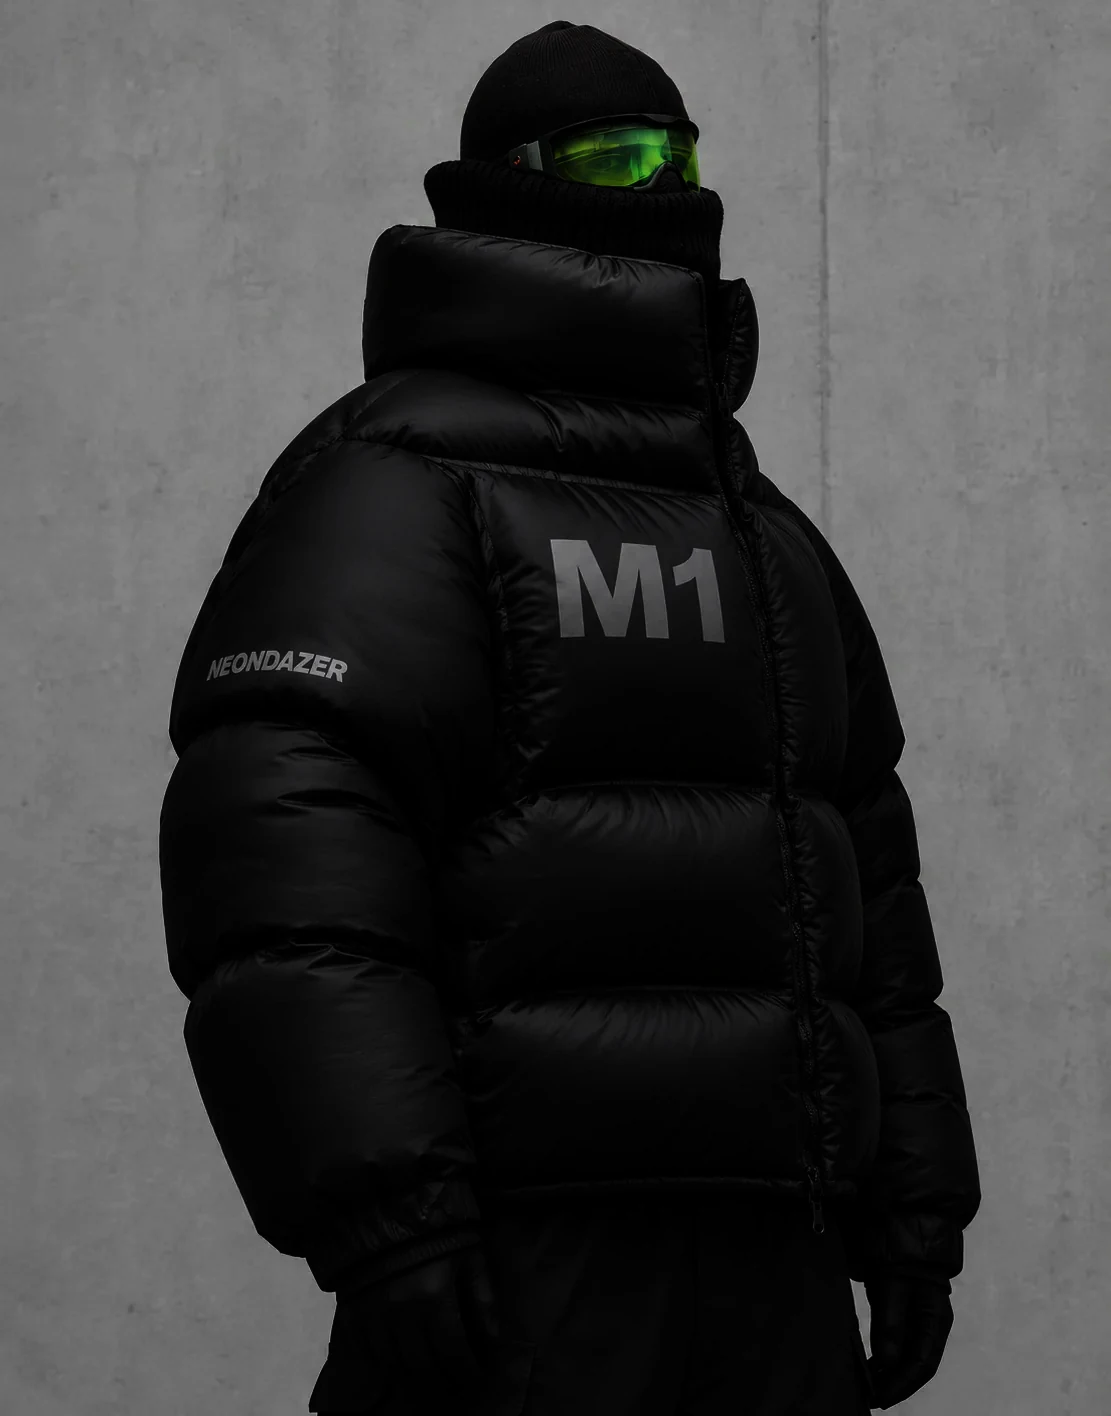
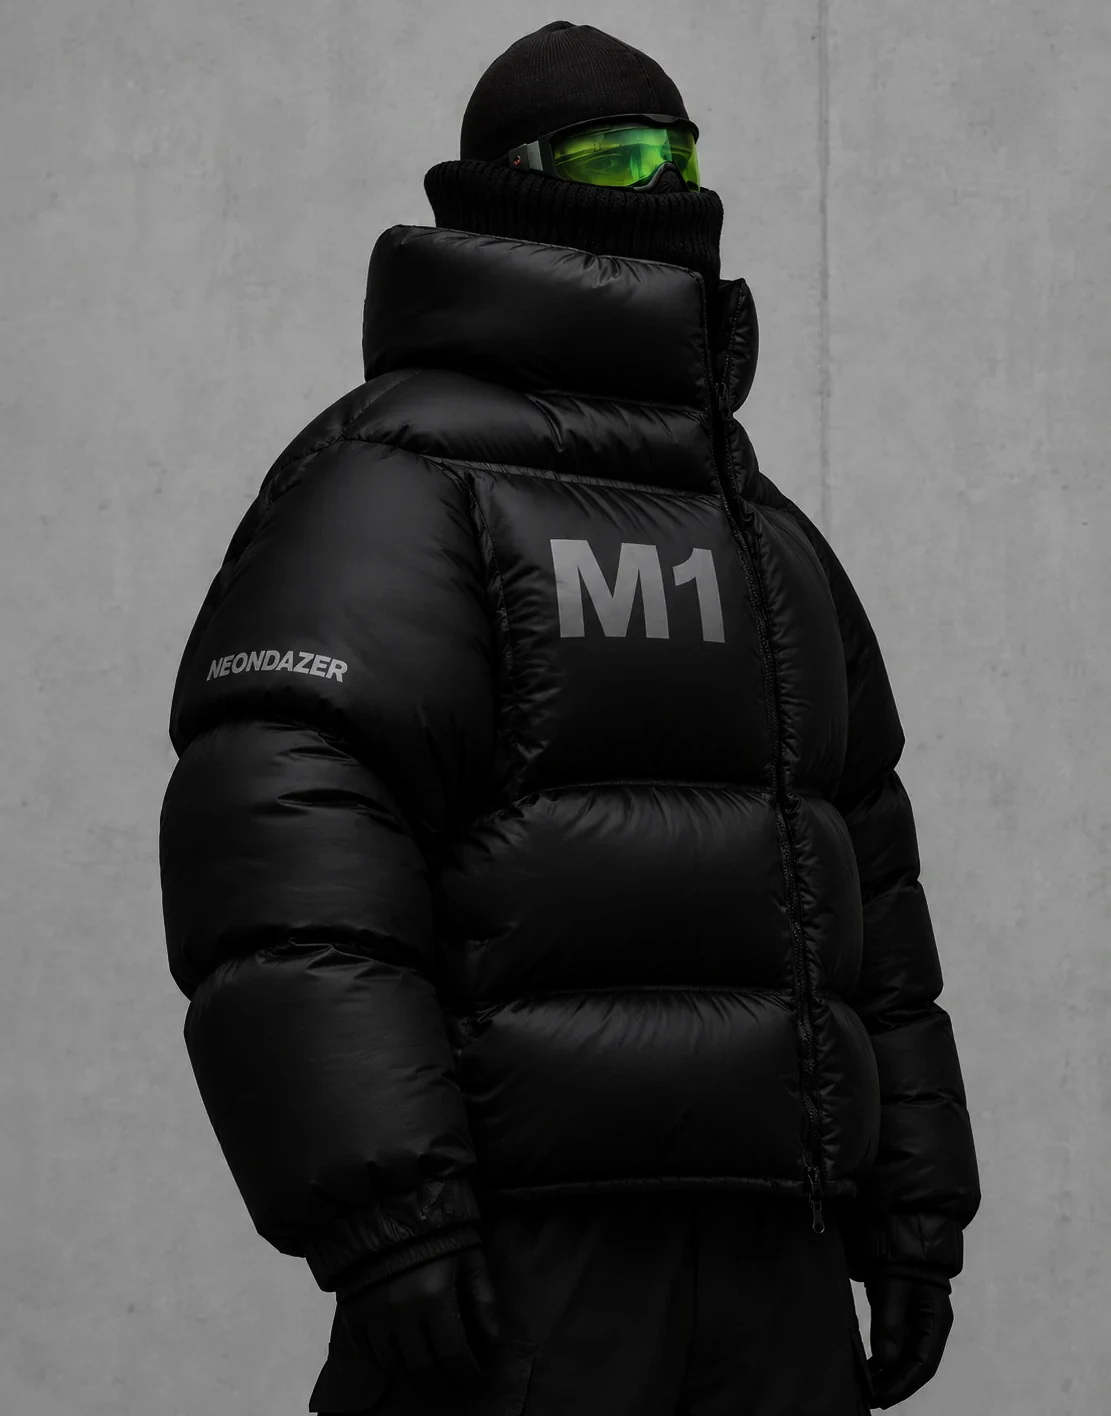
Hero layout and brighter photo, who intro, drop stats, faster growing lightbox, wordmark page transition
Claude-Session: https://claude.ai/code/session_01Tmbk2dd4R9AbAKMPzQgXd1

diff --git a/src/styles/pages.css b/src/styles/pages.css
@@ -562,7 +562,7 @@ body.is-locked { overflow: visible; }
 .choice input:checked { border-color: var(--c-ink); }
 .choice:has(input:checked) { border-color: var(--c-ink); background: rgba(182,255,46,0.16); }
 .ship-meter .stock__fill, .loader__bar i { background: var(--c-acid); }
-.curtain i:nth-child(3) { background: var(--c-acid); }
+
 .co-processing li.is-done, .co-steps li.is-done { color: var(--c-ink); }
 .co-steps li.is-done { background: rgba(182,255,46,0.35); }
 .co-ring { background: conic-gradient(from 0deg, transparent 0 25%, var(--c-ink) 60%, var(--c-acid) 100%); }
@@ -900,3 +900,46 @@ body.is-locked { overflow: visible; }
 /* narrow lookbook frames: drop the bottom-right note so it never meets the caption */
 .look--s5 .look__i--br { display: none; }
 @media (max-width: 819px) { .look--s3 .look__i--br, .look--s7 .look__i--br, .look--s1 .look__i--br { display: none; } }
+
+/* =========================== round: hero layout, intros, stats, transition =========================== */
+/* hero: lede moves top-left under the M1 caption */
+.hero__thumbs { position: relative; }
+.hero__lede { position: absolute; left: 0; top: calc(100% + 150px); width: 21ch; margin: 0; max-width: 21ch; font-family: var(--f-display); font-weight: 500; font-size: 1.15rem; line-height: 1.12; letter-spacing: -0.03em; color: #fff; }
+@media (max-width: 819px) { .hero__lede { display: none; } }
+/* hero: LIMITED and 78C closer together and higher; the button row rises with them */
+@media (min-width: 820px) {
+  .ht--2 { top: 25%; }
+  .ht--5 { top: 47% !important; margin-top: 0 !important; }
+  .hero__bottom { align-items: center; }
+}
+
+/* who: small bold intro above the label */
+.who__intro { display: grid; gap: 14px; max-width: 34ch; }
+.who__kicker { margin: 0; color: #fff; font-family: var(--f-display); font-weight: 600; font-size: 1.05rem; line-height: 1.25; letter-spacing: -0.02em; }
+
+/* drop row: stats above "Shop all" */
+.drop-row__aside { display: grid; gap: 22px; justify-items: end; }
+.drop-stats { display: flex; gap: clamp(18px, 3vw, 44px); margin: 0; }
+.drop-stats div { display: grid; gap: 2px; }
+.drop-stats dt { order: 2; font-family: var(--f-display); font-weight: 500; font-size: 1rem; letter-spacing: -0.02em; color: #55555b; }
+.drop-stats dd { order: 1; margin: 0; font-family: var(--f-display); font-weight: 500; font-size: clamp(2.2rem, 3.6vw, 3.4rem); line-height: 0.95; letter-spacing: -0.05em; color: var(--c-ink); }
+.drop-stats div:last-child dd { color: var(--c-cobalt); }
+@media (max-width: 819px) { .drop-row__aside { justify-items: start; } .drop-stats { gap: 18px; } .drop-stats dd { font-size: 2rem; } .drop-stats dt { font-size: 0.85rem; } }
+
+/* page transition: black panel, wordmark, loading ring */
+.curtain { display: block !important; }
+.curtain__panel { position: absolute; inset: 0; visibility: hidden; background: var(--c-void); color: var(--c-bone);
+  display: grid; place-content: center; justify-items: center; gap: 28px; }
+.curtain__edge { position: absolute; left: 0; right: 0; top: 0; height: 3px; background: var(--c-acid); }
+.curtain__word { margin: 0; font-family: var(--f-display); font-weight: 500; font-size: clamp(3.6rem, 15vw, 15rem); line-height: 0.9; letter-spacing: -0.06em; text-transform: uppercase; }
+.curtain__mask { display: inline-flex; overflow: hidden; padding: 0.04em 0.04em 0.06em; }
+.curtain__ch { display: inline-block; }
+.curtain__word sup { font-size: 0.16em; margin-left: 0.15em; align-self: flex-start; letter-spacing: 0; }
+.curtain__meta { display: flex; align-items: center; gap: 12px; font-family: var(--f-display); font-weight: 500; font-size: 1.05rem; letter-spacing: -0.02em; }
+.curtain__ring { width: 30px; height: 30px; animation: ring-spin 0.9s linear infinite; }
+.curtain__ring circle { fill: none; stroke-width: 3; }
+.curtain__track { stroke: rgba(255,255,255,0.14); }
+.curtain__arc { stroke: var(--c-acid); stroke-linecap: round; stroke-dasharray: 40 120; }
+@keyframes ring-spin { to { transform: rotate(360deg); } }
+.hero__thumbs p.hero__lede { padding: 0; margin: 0; }
+@media (min-width: 820px) and (min-height: 800px) { .hero__bottom { position: relative; top: -9vh; } }

diff --git a/index.html b/index.html
@@ -51,6 +51,7 @@
           <button type="button" class="hero__thumb hv" data-lb="hero" data-lb-src="./images/m1-editorial-sleeve.webp" data-lb-caption="Shoulder cell and M1 print" data-cursor="View" aria-label="View photo: shoulder and print"><img src="./images/m1-editorial-sleeve-sm.webp" alt="Shoulder cell and chest print" width="72" height="90"></button>
           <button type="button" class="hero__thumb hv" data-lb="hero" data-lb-src="./images/m1-editorial-back.webp" data-lb-caption="Back collar" data-cursor="View" aria-label="View photo: back collar"><img src="./images/m1-editorial-back-sm.webp" alt="Back collar of the M1 Puffer" width="72" height="90"></button>
           <p class="hero__thumbs-text">M1 Puffer 78C<br>Limited edition</p>
+          <p class="hero__lede">Seventy-eight hand-filled down cells, sealed in satin ripstop. Built for −25 °C city nights.</p>
         </div>
         <div class="hero__center">
           <div class="hero__pills"><span class="pill pill--dark" aria-hidden="true">●●</span><span class="pill">FW · 2026</span></div>
@@ -72,7 +73,6 @@
       <div class="wrap hero__bottom">
         <div class="hero__side">
           <span class="btn btn--acid btn--static">Drop 01 is live</span>
-          <p>Seventy-eight hand-filled down cells, sealed in satin ripstop. Built for −25 °C city nights.</p>
         </div>
         <div class="hero__cta">
           <a class="btn btn--acid" href="./shop.html?p=m1-obsidian" data-magnetic><span class="btn__label">Shop M1 — €890</span><svg class="btn__icon"><use href="#i-arrow"/></svg></a>
@@ -171,7 +171,10 @@
     <section class="who theme-dark" aria-labelledby="who-title">
       <div class="wrap">
         <div class="who__head">
-          <p class="index-num">Who it's for</p>
+          <div class="who__intro">
+            <p class="who__kicker">Not for the catwalk. For the walk home at 2 am, the last tram, the wind off the river.</p>
+            <p class="index-num">Who it's for</p>
+          </div>
           <h2 class="t-h2" id="who-title" data-split>Made for the ones<br>out after <em>dark</em>.</h2>
         </div>
         <div class="who__grid"><svg class="who-star who-star--1" viewBox="0 0 100 100" aria-hidden="true"><path d="M50 0C53 30 70 47 100 50C70 53 53 70 50 100C47 70 30 53 0 50C30 47 47 30 50 0Z"/></svg><svg class="who-star who-star--2" viewBox="0 0 100 100" aria-hidden="true"><path d="M50 0C53 30 70 47 100 50C70 53 53 70 50 100C47 70 30 53 0 50C30 47 47 30 50 0Z"/></svg><svg class="who-star who-star--3" viewBox="0 0 100 100" aria-hidden="true"><path d="M50 0C53 30 70 47 100 50C70 53 53 70 50 100C47 70 30 53 0 50C30 47 47 30 50 0Z"/></svg><svg class="who-star who-star--4" viewBox="0 0 100 100" aria-hidden="true"><path d="M50 0C53 30 70 47 100 50C70 53 53 70 50 100C47 70 30 53 0 50C30 47 47 30 50 0Z"/></svg>
@@ -213,7 +216,15 @@
       <div class="wrap">
         <div class="drop-row__head">
           <h2 class="t-h2" id="row-title" data-split>Drop 01 —<br>six <em>pieces</em></h2>
-          <a class="btn btn--dark" href="./shop.html" data-magnetic><span class="btn__label">Shop all</span><svg class="btn__icon"><use href="#i-arrow"/></svg></a>
+          <div class="drop-row__aside">
+            <dl class="drop-stats">
+              <div><dt>Silhouettes</dt><dd>3</dd></div>
+              <div><dt>Colourways</dt><dd>2</dd></div>
+              <div><dt>Fill power</dt><dd>800</dd></div>
+              <div><dt>Restocks</dt><dd>0</dd></div>
+            </dl>
+            <a class="btn btn--dark" href="./shop.html" data-magnetic><span class="btn__label">Shop all</span><svg class="btn__icon"><use href="#i-arrow"/></svg></a>
+          </div>
         </div>
         <div class="product-grid product-grid--row" data-home-products><!-- @render products --></div>
       </div>

diff --git a/src/js/core/router.js b/src/js/core/router.js
@@ -35,22 +35,45 @@ function syncNav(page) {
   });
 }
 
-const bars = () => [...document.querySelectorAll('[data-curtain] i')];
-function cover() {
-  if (reduceMotion || document.hidden) return Promise.resolve();
+// Transition: a black panel with the wordmark and a loading ring rises over the page,
+// the next page is swapped behind it, then the panel lifts away.
+const $c = (sel) => document.querySelector(sel);
+const LABEL = { home: 'Home', shop: 'Shop', contact: 'Contact' };
+let wordSplit = false;
+function chars() {
+  const w = $c('[data-curtain-word]');
+  if (w && !wordSplit) {
+    const sup = w.querySelector('sup')?.outerHTML || '';
+    const txt = w.firstChild.textContent;
+    w.innerHTML = `<span class="curtain__mask">${[...txt].map((ch) => `<span class="curtain__ch">${ch}</span>`).join('')}${sup}</span>`;
+    wordSplit = true;
+  }
+  return [...document.querySelectorAll('.curtain__ch')];
+}
+function cover(dest) {
+  const panel = $c('[data-curtain-panel]');
+  if (!panel || reduceMotion || document.hidden) return Promise.resolve();
+  const label = $c('[data-curtain-label]'); if (label) label.textContent = LABEL[dest] || 'Loading';
+  const ch = chars();
   // never let a paused animation (background tab) block navigation
-  return new Promise((r) => { setTimeout(r, 900); gsap.timeline({ onComplete: r })
-    .set(bars(), { transformOrigin: 'bottom' })
-    .to(bars(), { scaleY: 1, duration: 0.5, ease: 'expo.inOut', stagger: 0.04 })
-    .to('main', { opacity: 0.4, duration: 0.5, ease: 'expo.inOut' }, 0); });
+  return new Promise((r) => { setTimeout(r, 1400); gsap.timeline({ onComplete: r })
+    .set(panel, { visibility: 'visible', yPercent: 100 })
+    .set(ch, { yPercent: 110 })
+    .set('.curtain__meta', { opacity: 0, y: 12 })
+    .to(panel, { yPercent: 0, duration: 0.6, ease: 'expo.inOut' })
+    .to('main', { opacity: 0.5, duration: 0.6, ease: 'expo.inOut' }, 0)
+    .to(ch, { yPercent: 0, duration: 0.6, ease: 'expo.out', stagger: 0.035 }, 0.3)
+    .to('.curtain__meta', { opacity: 1, y: 0, duration: 0.4, ease: 'power2.out' }, 0.4); });
 }
 function reveal() {
-  if (reduceMotion) { gsap.set('main', { clearProps: 'all' }); return; }
-  gsap.set('main', { opacity: 1 });
-  gsap.timeline()
-    .set(bars(), { transformOrigin: 'top' })
-    .fromTo('main', { opacity: 0.4 }, { opacity: 1, duration: 0.6, ease: 'power2.out', clearProps: 'opacity' }, 0.05)
-    .to(bars(), { scaleY: 0, duration: 0.65, ease: 'expo.inOut', stagger: 0.04 }, 0);
+  const panel = $c('[data-curtain-panel]');
+  if (reduceMotion || !panel) { gsap.set('main', { clearProps: 'opacity' }); return; }
+  gsap.timeline({ delay: 0.15 })
+    .to('.curtain__ch', { yPercent: -110, duration: 0.45, ease: 'expo.in', stagger: 0.02 }, 0)
+    .to('.curtain__meta', { opacity: 0, duration: 0.25 }, 0)
+    .to(panel, { yPercent: -100, duration: 0.75, ease: 'expo.inOut' }, 0.2)
+    .fromTo('main', { opacity: 0.5 }, { opacity: 1, duration: 0.6, ease: 'power2.out', clearProps: 'opacity' }, 0.35)
+    .set(panel, { visibility: 'hidden', yPercent: 100 });
 }
 
 async function go(href, { push = true } = {}) {
@@ -64,7 +87,8 @@ async function go(href, { push = true } = {}) {
   window.naturikMenuClose?.();
   window.naturikCart?.close();
   try {
-    const [html] = await Promise.all([htmlP, cover()]);
+    const dest = /shop/.test(url.pathname) ? 'shop' : /contact/.test(url.pathname) ? 'contact' : 'home';
+    const [html] = await Promise.all([htmlP, cover(dest)]);
     const doc = new DOMParser().parseFromString(html, 'text/html');
     const next = pageOf(doc);
     current?.();                                   // unmount the old page

diff --git a/src/js/components/lightbox.js b/src/js/components/lightbox.js
@@ -47,14 +47,18 @@ export function openLightbox(group, start, fromEl) {
   show(start);
   el.classList.add('is-open');
   const img = el.querySelector('.lb__img');
-  gsap.fromTo(el.querySelector('.lb__backdrop'), { opacity: 0 }, { opacity: 1, duration: 0.4 });
-  gsap.fromTo(el.querySelectorAll('.lb__btn, .lb__dots, .lb__cap'), { opacity: 0, y: 10 }, { opacity: 1, y: 0, duration: 0.5, delay: 0.25, stagger: 0.04 });
+  gsap.fromTo(el.querySelector('.lb__backdrop'), { opacity: 0 }, { opacity: 1, duration: 0.25 });
+  gsap.fromTo(el.querySelectorAll('.lb__btn, .lb__dots, .lb__cap'), { opacity: 0, y: 8 }, { opacity: 1, y: 0, duration: 0.35, delay: 0.12, stagger: 0.03 });
   const thumb = fromEl?.querySelector('img') || fromEl;
+  // always grows: from the thumbnail if it is smaller, otherwise a short scale-up in place
   const fly = () => {
-    if (!thumb?.getBoundingClientRect) { gsap.fromTo(img, { opacity: 0, scale: 0.94 }, { opacity: 1, scale: 1, duration: 0.6, ease: 'expo.out' }); return; }
-    const a = thumb.getBoundingClientRect(), b = img.getBoundingClientRect();
-    gsap.fromTo(img, { x: a.left + a.width / 2 - (b.left + b.width / 2), y: a.top + a.height / 2 - (b.top + b.height / 2), scale: a.width / b.width, opacity: 0.6 },
-      { x: 0, y: 0, scale: 1, opacity: 1, duration: 0.85, ease: 'expo.inOut' });
+    const b = img.getBoundingClientRect();
+    const a = thumb?.getBoundingClientRect ? thumb.getBoundingClientRect() : null;
+    const inView = a && a.width > 0 && a.bottom > 0 && a.top < innerHeight;
+    const s0 = a ? Math.min(a.width / b.width, a.height / b.height) : 1;
+    if (!inView || s0 > 0.82) { gsap.fromTo(img, { x: 0, y: 0, scale: 0.86, opacity: 0 }, { scale: 1, opacity: 1, duration: 0.45, ease: 'expo.out' }); return; }
+    gsap.fromTo(img, { x: a.left + a.width / 2 - (b.left + b.width / 2), y: a.top + a.height / 2 - (b.top + b.height / 2), scale: s0, opacity: 0.7 },
+      { x: 0, y: 0, scale: 1, opacity: 1, duration: 0.5, ease: 'expo.out' });
   };
   if (img.complete && img.naturalWidth) fly(); else img.onload = () => { img.onload = null; fly(); };
   setTimeout(() => el.querySelector('.lb__close').focus({ preventScroll: true }), 100);
@@ -62,7 +66,7 @@ export function openLightbox(group, start, fromEl) {
 
 function close() {
   if (!el?.classList.contains('is-open')) return;
-  gsap.to(el, { opacity: 0, duration: 0.3, onComplete: () => { el.classList.remove('is-open'); gsap.set(el, { clearProps: 'opacity' }); } });
+  gsap.to(el, { opacity: 0, duration: 0.22, onComplete: () => { el.classList.remove('is-open'); gsap.set(el, { clearProps: 'opacity' }); } });
   lastFocus?.focus?.({ preventScroll: true });
 }
 

diff --git a/partials/overlays.html b/partials/overlays.html
@@ -23,7 +23,13 @@
   <p><b>Cookies, minimal.</b> We use strictly necessary storage for your bag. Analytics only with your yes. <button type="button" class="link-btn" data-legal="cookies">Details</button></p>
   <div class="cookie__actions"><button class="btn btn--ghost" type="button" data-cookie-choice="necessary"><span class="btn__label">Necessary only</span></button><button class="btn btn--dark" type="button" data-cookie-choice="all"><span class="btn__label">Accept all</span></button></div>
 </div>
-<div class="curtain" data-curtain aria-hidden="true"><i></i><i></i><i></i><i></i><i></i></div>
+<div class="curtain" data-curtain aria-hidden="true">
+  <div class="curtain__panel" data-curtain-panel>
+    <p class="curtain__word" data-curtain-word>Naturik<sup>®</sup></p>
+    <div class="curtain__meta"><svg class="curtain__ring" viewBox="0 0 44 44"><circle class="curtain__track" cx="22" cy="22" r="19"/><circle class="curtain__arc" cx="22" cy="22" r="19"/></svg><span data-curtain-label>Loading</span></div>
+    <span class="curtain__edge"></span>
+  </div>
+</div>
 <div class="cursor" data-cursor-dot aria-hidden="true"></div>
 <div class="cursor__label" data-cursor-label aria-hidden="true"></div>
 <div class="grain" aria-hidden="true"></div>

diff --git a/src/js/components/ui.js b/src/js/components/ui.js
@@ -187,8 +187,8 @@ function initCookies() {
 
 /* ---------- curtain: router drives it; make sure it never sticks after bfcache restores ---------- */
 function initCurtainFallback() {
-  const bars = document.querySelectorAll('[data-curtain] i');
-  window.addEventListener('pageshow', () => gsap.set(bars, { scaleY: 0 }));
+  const panel = document.querySelector('[data-curtain-panel]');
+  if (panel) window.addEventListener('pageshow', () => gsap.set(panel, { yPercent: 100, visibility: 'hidden' }));
 }
 
 /* ---------- footer wordmark: letters rise as the footer enters ---------- */
